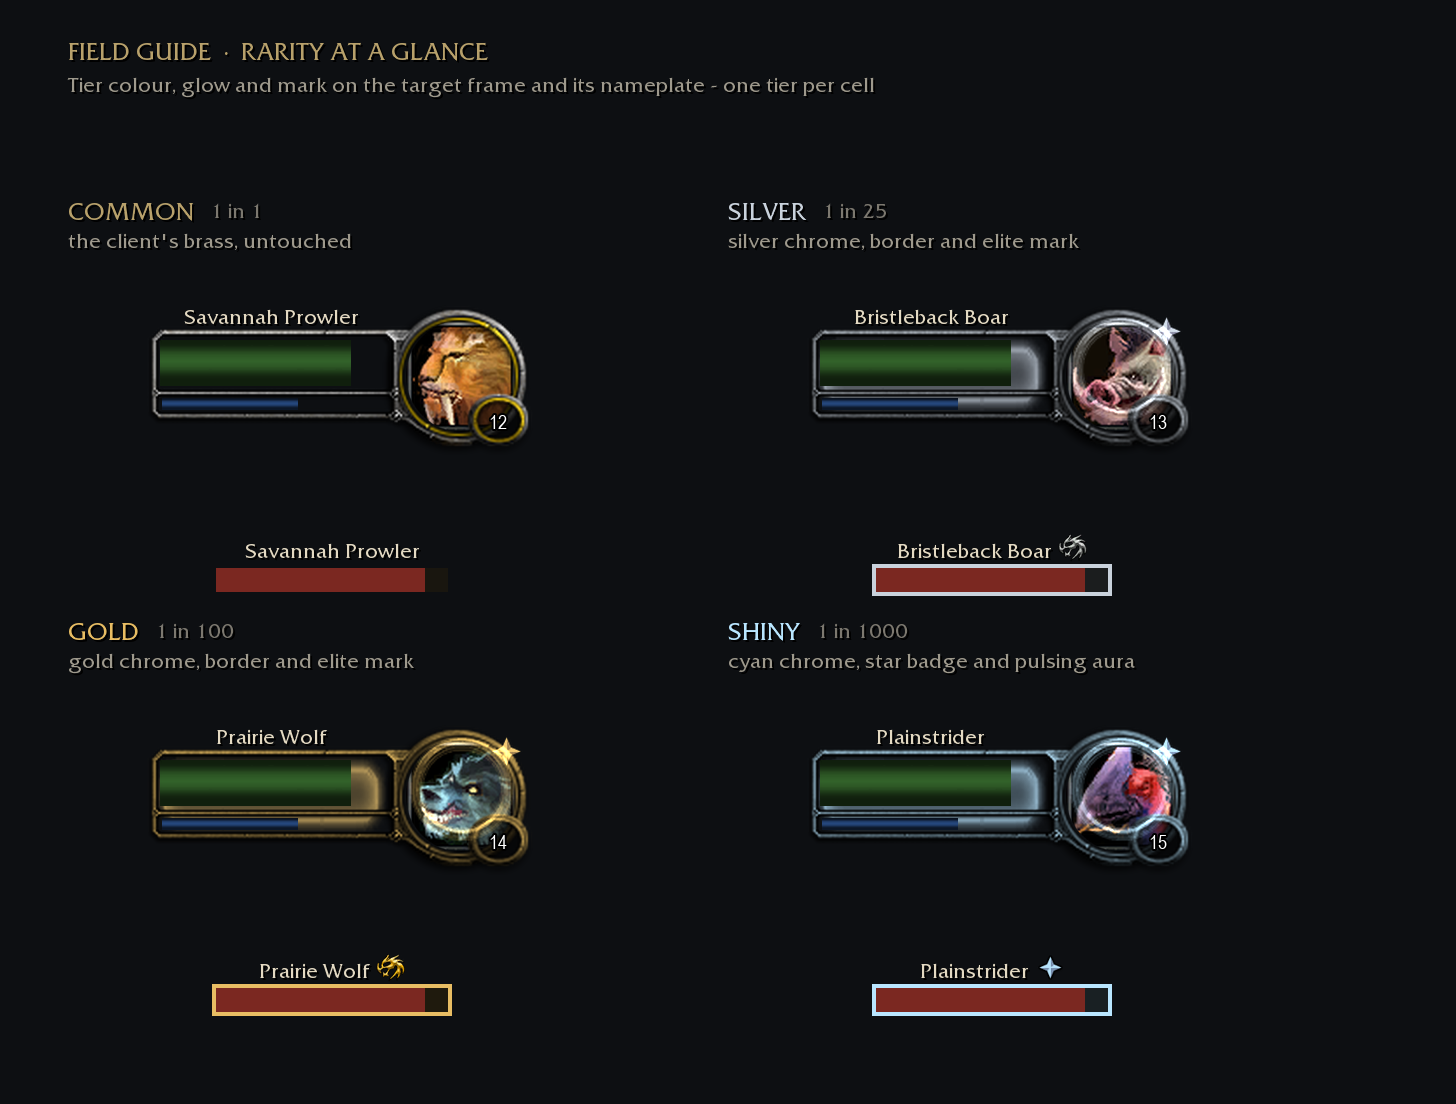
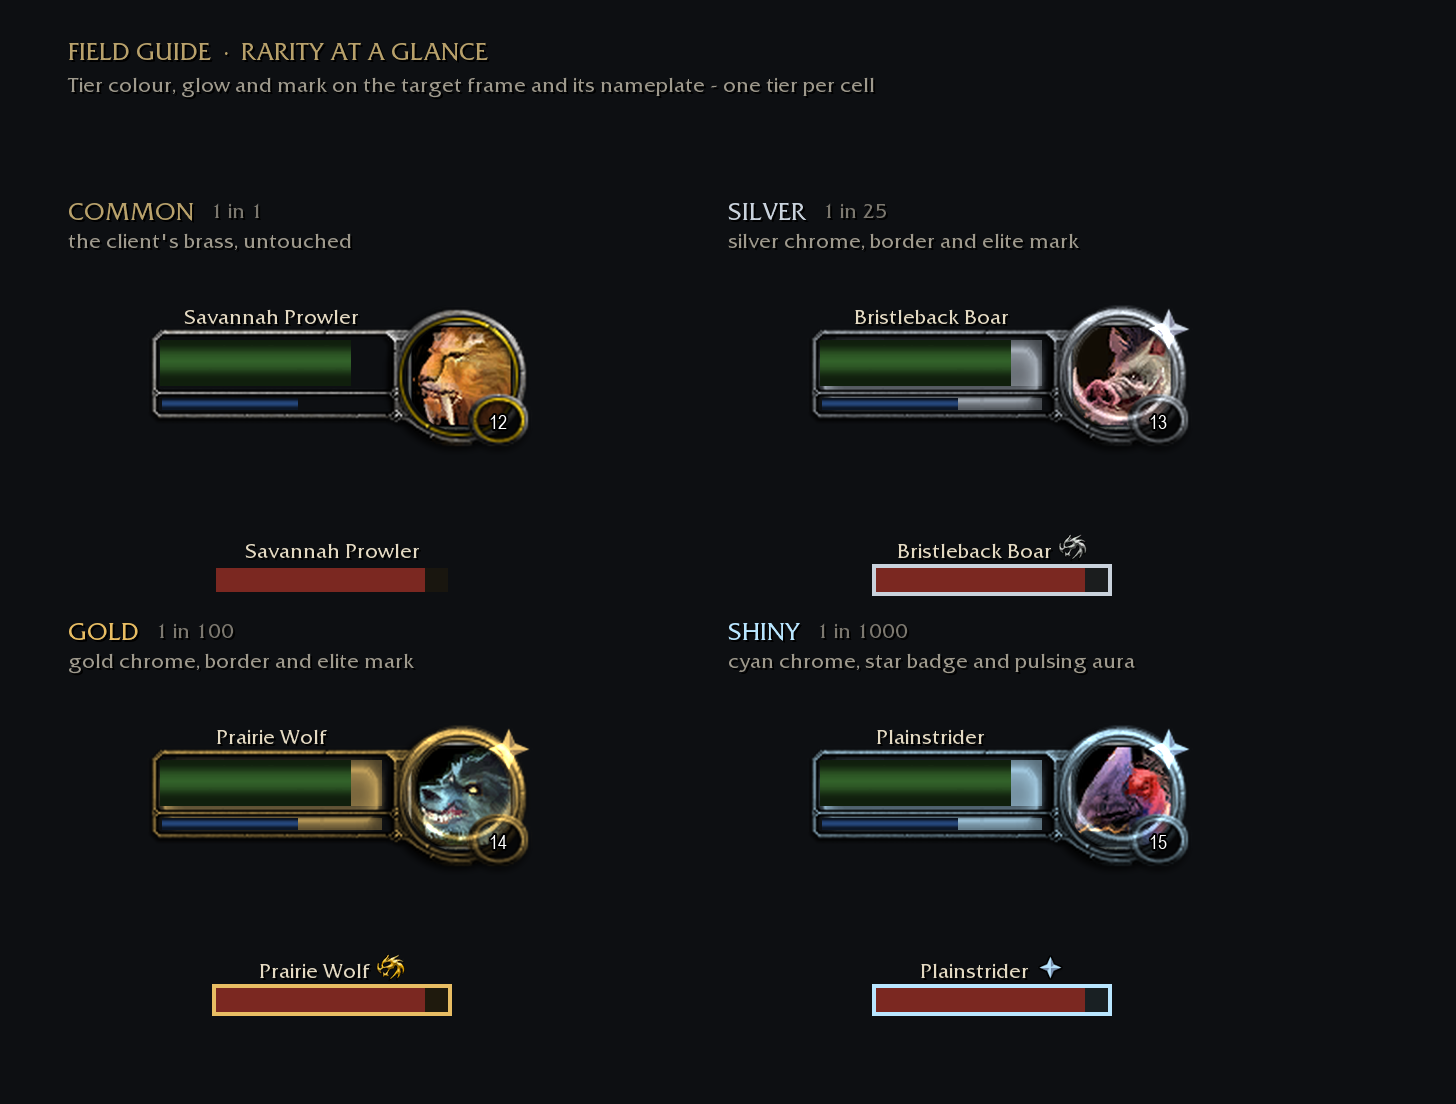
fix(rarity): fill target bars and bolden portrait marks
Tint the empty health and power bar backgrounds in the tier colour, enlarge the portrait star badge and make the portrait ring bolder.

Claude-Session: https://claude.ai/code/session_01BVTqPz9EUbahn1EQ2yvUDL

Changed region(s): [[0.649, 0.6467, 0.8345, 0.7699], [0.2163, 0.6467, 0.3709, 0.7699], [0.649, 0.2772, 0.8345, 0.4004]]

diff --git a/tools/rarity.py b/tools/rarity.py
@@ -44,8 +44,10 @@ TARGET_BAR_GLOW_LEFT_WIDTH = 35
 TARGET_BAR_GLOW_RIGHT_WIDTH = 34
 TARGET_BAR_GLOW_PAD = 3
 TARGET_RING = "Portrait-Frame-Small"
-TARGET_RING_SIZE = 64
+TARGET_RING_SIZE = 76
 TARGET_BADGE = "Rare-Elite-Star"
+TARGET_BADGE_SIZE = 26
+BAR_TINT_ALPHA = {"SILVER": 0.3, "GOLD": 0.3, "SHINY": 0.45}
 PLATE_MARKS = {
     "SILVER": "nameplates-icon-elite-silver",
     "GOLD": "nameplates-icon-elite-gold",
@@ -140,6 +142,13 @@ def bar_glow(canvas, ui, x, y, colour):
     )
 
 
+def bar_tint(canvas, bounds, colour, alpha):
+    """The tier tint behind a bar's fill, so its empty background reads as the tier rather than the client's dark
+    trough."""
+    left, top, right, bottom = bounds
+    canvas.fill(left, top, right - left, bottom - top, (*colour, alpha))
+
+
 def portrait_ring(canvas, ui, x, y, colour):
     """The client's portrait-frame ring, tinted to the tier and scaled uniformly around the portrait."""
     glow_piece(
@@ -183,6 +192,10 @@ def target_frame(ui, canvas, x, y, tier, icon, name, level, elite=False):
     # Draw the StatusBars and portrait before the chrome; drawing the BLP twice thickens its semi-transparent edges.
     health_bounds = tuple(v + (x if i % 2 == 0 else y) for i, v in enumerate(HEALTH_WINDOW))
     power_bounds = tuple(v + (x if i % 2 == 0 else y) for i, v in enumerate(POWER_WINDOW))
+    if colour:
+        alpha = BAR_TINT_ALPHA.get(tier[0], 0.3)
+        bar_tint(canvas, health_bounds, colour, alpha)
+        bar_tint(canvas, power_bounds, colour, alpha)
     status_bar(canvas, bar_texture, health_bounds, 0.86, wowmock.rgb("3f7a34"))
     status_bar(canvas, bar_texture, power_bounds, 0.62, wowmock.rgb("2f5a9e"))
 
@@ -198,7 +211,7 @@ def target_frame(ui, canvas, x, y, tier, icon, name, level, elite=False):
         portrait_ring(canvas, ui, x, y, colour)
         centre_x = x + PORTRAIT_CENTER[0]
         centre_y = y + PORTRAIT_CENTER[1]
-        mark(canvas, ui, TARGET_BADGE, centre_x + 22, centre_y - 22, 18, colour)
+        mark(canvas, ui, TARGET_BADGE, centre_x + 23, centre_y - 23, TARGET_BADGE_SIZE, colour)
     text(canvas, x + 32, y + 8, name, "GameFontNormalSmall", TEXT, justify="CENTER", width=111)
     text(
         canvas,
